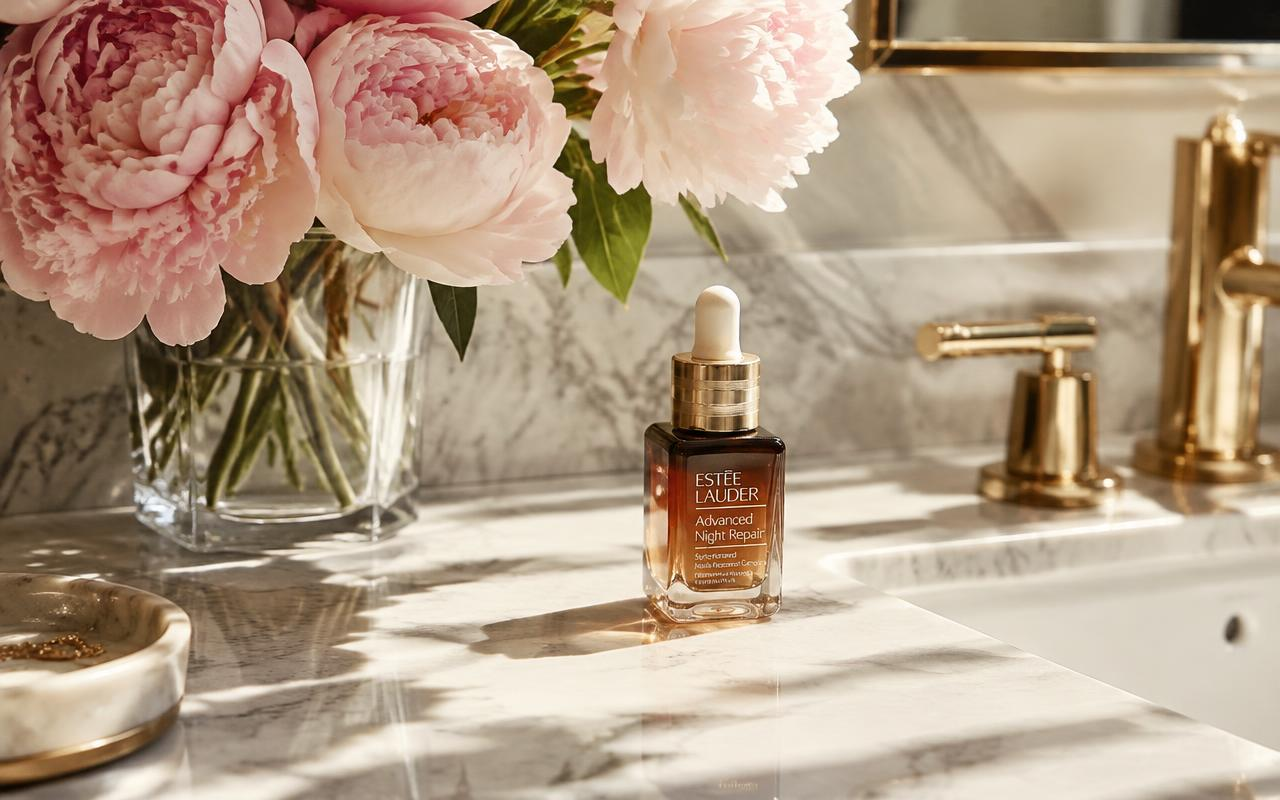
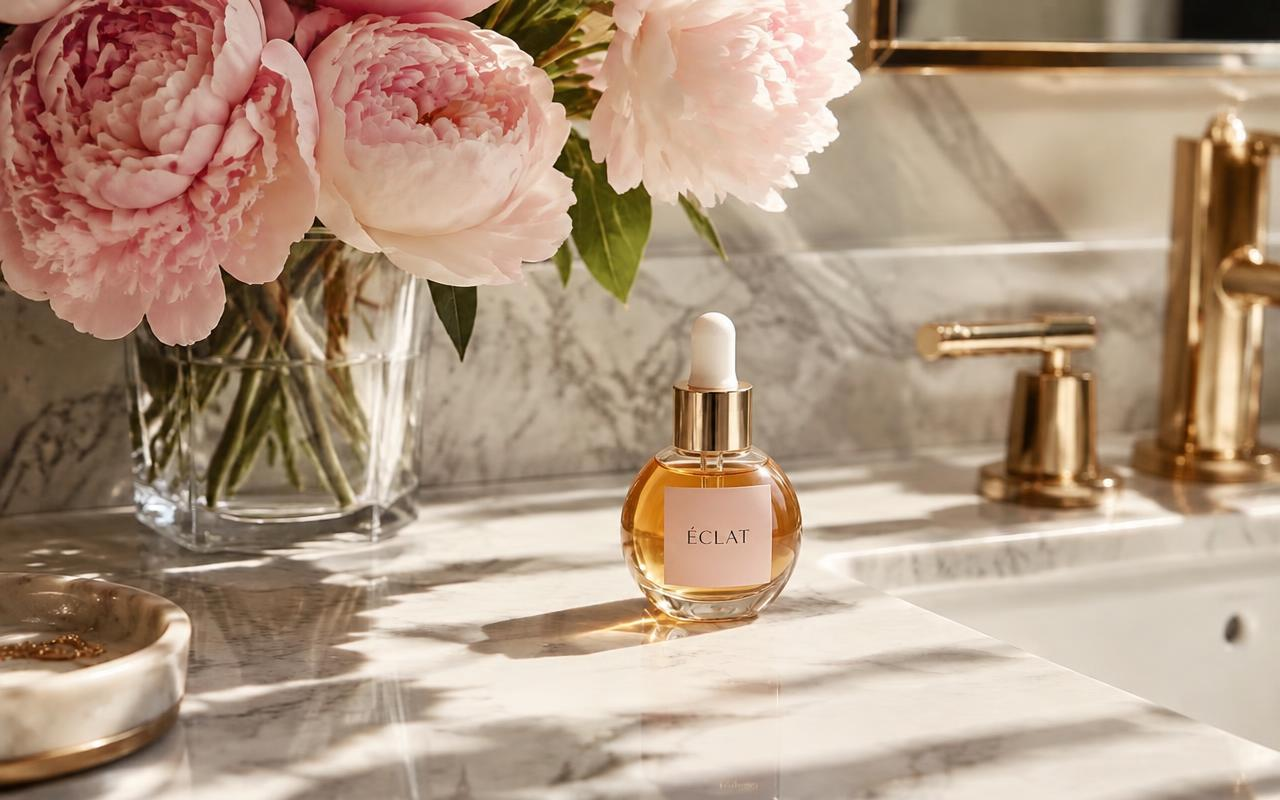
Changes

Changed region(s): [[0.4688, 0.3438, 0.625, 0.8125], [0.3438, 0.0625, 0.375, 0.0938], [0.0312, 0.7812, 0.0625, 0.8125]]

diff --git a/src/editor/demo/demoDocument.ts b/src/editor/demo/demoDocument.ts
@@ -1,0 +1,115 @@
+// DEMO DATA — replace with a document loaded from the real API.
+import hero from "@/assets/product-hero.jpg";
+import texture from "@/assets/product-texture.jpg";
+import lifestyle from "@/assets/product-lifestyle.jpg";
+import type { PageDocument, Section, SectionType } from "../types";
+
+export const DEMO_IMAGES = [hero, texture, lifestyle];
+
+export const uid = () => Math.random().toString(36).slice(2, 10);
+
+const baseStyle = { paddingY: 64, align: "left" as const, tone: "default" as const };
+
+export const demoDocument: PageDocument = {
+  id: "demo-eclat-radiance-serum",
+  version: 1,
+  product: { title: "Éclat Radiance Serum", handle: "eclat-radiance-serum" },
+  theme: {
+    primary: "#b0186f",
+    background: "#fffaf8",
+    surface: "#f7ece9",
+    text: "#2a1822",
+    headingFont: "Cormorant Garamond",
+    bodyFont: "Manrope",
+    radius: 14,
+  },
+  sections: [
+    {
+      id: uid(), type: "announcement", name: "Announcement bar", hidden: false,
+      style: { ...baseStyle, paddingY: 10, align: "center", tone: "primary" },
+      settings: { text: "Free shipping over $60 · 30-day glow guarantee" },
+    },
+    {
+      id: uid(), type: "hero", name: "Product hero", hidden: false, style: { ...baseStyle, paddingY: 48 },
+      settings: {
+        eyebrow: "Vitamin C + Squalane",
+        title: "Radiance Serum",
+        description:
+          "A weightless golden serum that brightens dull skin in 14 days. 15% stabilised vitamin C, cold-pressed squalane and niacinamide work together for a lit-from-within glow.",
+        price: "$58.00",
+        compareAt: "$72.00",
+        ctaLabel: "Add to bag",
+        images: [hero, texture, lifestyle],
+        variants: ["30 ml", "50 ml", "Refill 100 ml"],
+        badge: "Bestseller",
+      },
+    },
+    {
+      id: uid(), type: "features", name: "Key benefits", hidden: false, style: { ...baseStyle, align: "center", tone: "surface" },
+      settings: {
+        title: "Why it works",
+        columns: 3,
+        items: [
+          { id: uid(), icon: "Sun", title: "Visibly brighter", text: "94% saw a more even tone after two weeks of daily use." },
+          { id: uid(), icon: "Droplets", title: "Deep hydration", text: "Plant squalane locks in moisture without a greasy finish." },
+          { id: uid(), icon: "Leaf", title: "Clean formula", text: "Vegan, fragrance-free and dermatologist tested." },
+        ],
+      },
+    },
+    {
+      id: uid(), type: "imageText", name: "Ritual story", hidden: false, style: baseStyle,
+      settings: {
+        title: "Three drops. Every morning.",
+        body: "Press onto clean skin before moisturiser and SPF. The silky texture absorbs in seconds, leaving a soft-focus radiance that lasts all day.",
+        image: lifestyle,
+        imageSide: "left",
+      },
+    },
+    {
+      id: uid(), type: "reviews", name: "Reviews", hidden: false, style: { ...baseStyle, align: "center" },
+      settings: {
+        title: "Loved by 12,000+ customers",
+        rating: 4.8,
+        count: 2143,
+        items: [
+          { id: uid(), author: "Amelia R.", rating: 5, text: "My dark spots faded noticeably in three weeks. The texture is a dream." },
+          { id: uid(), author: "Priya S.", rating: 5, text: "Finally a vitamin C that doesn't sting. My skin looks rested even when I'm not." },
+          { id: uid(), author: "Jordan L.", rating: 4, text: "Beautiful glow and the bottle looks gorgeous on my shelf." },
+        ],
+      },
+    },
+    {
+      id: uid(), type: "faq", name: "FAQ", hidden: false, style: baseStyle,
+      settings: {
+        title: "Questions, answered",
+        items: [
+          { id: uid(), q: "Is it suitable for sensitive skin?", a: "Yes. The formula is fragrance-free and was tested on sensitive skin types." },
+          { id: uid(), q: "When will I see results?", a: "Most customers notice brighter skin within 14 days of daily use." },
+          { id: uid(), q: "Can I use it with retinol?", a: "Use vitamin C in the morning and retinol at night for best results." },
+        ],
+      },
+    },
+    {
+      id: uid(), type: "cta", name: "Final call to action", hidden: false, style: { ...baseStyle, align: "center", tone: "primary" },
+      settings: { title: "Your glow, bottled.", subtitle: "Try it risk-free for 30 days.", ctaLabel: "Shop Radiance Serum" },
+    },
+  ],
+};
+
+// Templates for "Add section".
+export function createSection(type: SectionType): Section {
+  const s = demoDocument.sections.find((x) => x.type === type)!;
+  const copy = structuredClone(s) as Section;
+  copy.id = uid();
+  return copy;
+}
+
+export const SECTION_LIBRARY: { type: SectionType; label: string; description: string }[] = [
+  { type: "announcement", label: "Announcement bar", description: "Slim promo strip" },
+  { type: "hero", label: "Product hero", description: "Gallery, price & buy box" },
+  { type: "features", label: "Benefits grid", description: "Icon + text columns" },
+  { type: "imageText", label: "Image with text", description: "Story split layout" },
+  { type: "reviews", label: "Reviews", description: "Social proof" },
+  { type: "faq", label: "FAQ", description: "Expandable questions" },
+  { type: "cta", label: "Call to action", description: "Closing banner" },
+];

diff --git a/src/editor/useEditorStore.ts b/src/editor/useEditorStore.ts
@@ -1,0 +1,87 @@
+// Editor state (document + history + selection), separate from the renderer.
+import { useCallback, useReducer } from "react";
+import type { PageDocument, Section, SectionType, ThemeSettings } from "./types";
+import { createSection, uid } from "./demo/demoDocument";
+
+interface History { past: PageDocument[]; present: PageDocument; future: PageDocument[] }
+
+type Action =
+  | { type: "commit"; doc: PageDocument; coalesce?: string }
+  | { type: "undo" }
+  | { type: "redo" }
+  | { type: "reset"; doc: PageDocument };
+
+let lastCoalesce: { key: string; t: number } | null = null;
+
+function reducer(h: History, a: Action): History {
+  switch (a.type) {
+    case "commit": {
+      const now = Date.now();
+      // Group rapid edits to the same field into one undo step.
+      if (a.coalesce && lastCoalesce?.key === a.coalesce && now - lastCoalesce.t < 800) {
+        lastCoalesce.t = now;
+        return { ...h, present: a.doc, future: [] };
+      }
+      lastCoalesce = a.coalesce ? { key: a.coalesce, t: now } : null;
+      return { past: [...h.past, h.present].slice(-100), present: a.doc, future: [] };
+    }
+    case "undo": {
+      if (!h.past.length) return h;
+      lastCoalesce = null;
+      return { past: h.past.slice(0, -1), present: h.past[h.past.length - 1], future: [h.present, ...h.future] };
+    }
+    case "redo": {
+      if (!h.future.length) return h;
+      lastCoalesce = null;
+      return { past: [...h.past, h.present], present: h.future[0], future: h.future.slice(1) };
+    }
+    case "reset":
+      return { past: [], present: a.doc, future: [] };
+  }
+}
+
+export function useEditorStore(initial: PageDocument) {
+  const [h, dispatch] = useReducer(reducer, { past: [], present: initial, future: [] });
+  const doc = h.present;
+
+  const commit = useCallback((next: PageDocument, coalesce?: string) => dispatch({ type: "commit", doc: next, coalesce }), []);
+
+  const actions = {
+    undo: () => dispatch({ type: "undo" }),
+    redo: () => dispatch({ type: "redo" }),
+    reset: (d: PageDocument) => dispatch({ type: "reset", doc: d }),
+    updateSection: (id: string, patch: (s: Section) => Section, coalesce?: string) =>
+      commit({ ...doc, sections: doc.sections.map((s) => (s.id === id ? patch(s) : s)) }, coalesce),
+    updateTheme: (patch: Partial<ThemeSettings>, coalesce?: string) =>
+      commit({ ...doc, theme: { ...doc.theme, ...patch } }, coalesce),
+    move: (from: number, to: number) => {
+      const arr = [...doc.sections];
+      const [m] = arr.splice(from, 1);
+      arr.splice(to, 0, m);
+      commit({ ...doc, sections: arr });
+    },
+    add: (type: SectionType, afterId?: string) => {
+      const s = createSection(type);
+      const arr = [...doc.sections];
+      const idx = afterId ? arr.findIndex((x) => x.id === afterId) + 1 : arr.length;
+      arr.splice(idx, 0, s);
+      commit({ ...doc, sections: arr });
+      return s.id;
+    },
+    duplicate: (id: string) => {
+      const idx = doc.sections.findIndex((s) => s.id === id);
+      const copy = structuredClone(doc.sections[idx]);
+      copy.id = uid();
+      copy.name = `${copy.name} copy`;
+      const arr = [...doc.sections];
+      arr.splice(idx + 1, 0, copy);
+      commit({ ...doc, sections: arr });
+      return copy.id;
+    },
+    toggleHidden: (id: string) =>
+      commit({ ...doc, sections: doc.sections.map((s) => (s.id === id ? { ...s, hidden: !s.hidden } : s)) }),
+    remove: (id: string) => commit({ ...doc, sections: doc.sections.filter((s) => s.id !== id) }),
+  };
+
+  return { doc, canUndo: h.past.length > 0, canRedo: h.future.length > 0, ...actions };
+}

diff --git a/src/editor/types.ts b/src/editor/types.ts
@@ -1,0 +1,71 @@
+// Structured JSON document model for a product page.
+// This is the single source of truth the renderer consumes and the
+// shape a future API would persist / export.
+
+export type SectionType =
+  | "announcement"
+  | "hero"
+  | "features"
+  | "imageText"
+  | "reviews"
+  | "faq"
+  | "cta";
+
+export interface ThemeSettings {
+  primary: string;
+  background: string;
+  surface: string;
+  text: string;
+  headingFont: string;
+  bodyFont: string;
+  radius: number;
+}
+
+export interface FeatureItem { id: string; title: string; text: string; icon: string }
+export interface ReviewItem { id: string; author: string; rating: number; text: string }
+export interface FaqItem { id: string; q: string; a: string }
+
+export interface SectionSettingsMap {
+  announcement: { text: string };
+  hero: {
+    eyebrow: string;
+    title: string;
+    description: string;
+    price: string;
+    compareAt: string;
+    ctaLabel: string;
+    images: string[];
+    variants: string[];
+    badge: string;
+  };
+  features: { title: string; columns: 2 | 3 | 4; items: FeatureItem[] };
+  imageText: { title: string; body: string; image: string; imageSide: "left" | "right" };
+  reviews: { title: string; rating: number; count: number; items: ReviewItem[] };
+  faq: { title: string; items: FaqItem[] };
+  cta: { title: string; subtitle: string; ctaLabel: string };
+}
+
+export interface SectionStyle {
+  paddingY: number; // px
+  align: "left" | "center";
+  tone: "default" | "surface" | "primary";
+}
+
+export type Section = {
+  [K in SectionType]: {
+    id: string;
+    type: K;
+    name: string;
+    hidden: boolean;
+    style: SectionStyle;
+    settings: SectionSettingsMap[K];
+  };
+}[SectionType];
+
+export interface PageDocument {
+  id: string;
+  version: number;
+  product: { title: string; handle: string };
+  theme: ThemeSettings;
+  sections: Section[];
+}

diff --git a/src/editor/mockApi.ts b/src/editor/mockApi.ts
@@ -1,0 +1,35 @@
+// MOCK ACTIONS — nothing here talks to a server.
+// Replace each function body with a real API call later; keep the signatures.
+import type { PageDocument } from "./types";
+
+const KEY = "mercury-pages:draft";
+
+/** Saves the draft to this browser only (localStorage). Not a real backend. */
+export async function saveDraft(doc: PageDocument): Promise<{ savedAt: Date }> {
+  await new Promise((r) => setTimeout(r, 450));
+  localStorage.setItem(KEY, JSON.stringify(doc));
+  return { savedAt: new Date() };
+}
+
+export function loadLocalDraft(): PageDocument | null {
+  try {
+    const raw = localStorage.getItem(KEY);
+    return raw ? (JSON.parse(raw) as PageDocument) : null;
+  } catch {
+    return null;
+  }
+}
+
+export function clearLocalDraft() {
+  localStorage.removeItem(KEY);
+}
+
+/** Not connected: AI generation is a placeholder. */
+export async function generateWithAI(): Promise<never> {
+  throw new Error("AI generation isn't connected yet.");
+}
+
+/** Not connected: Shopify export is a placeholder. */
+export async function exportToShopify(): Promise<never> {
+  throw new Error("Shopify export isn't connected yet.");
+}
